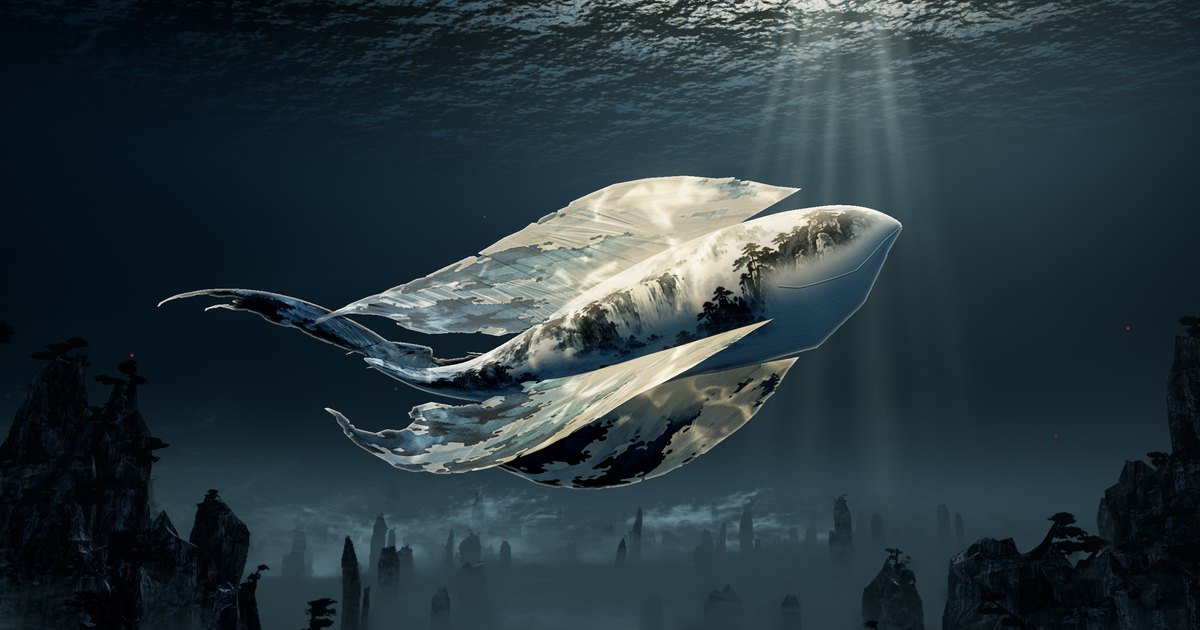
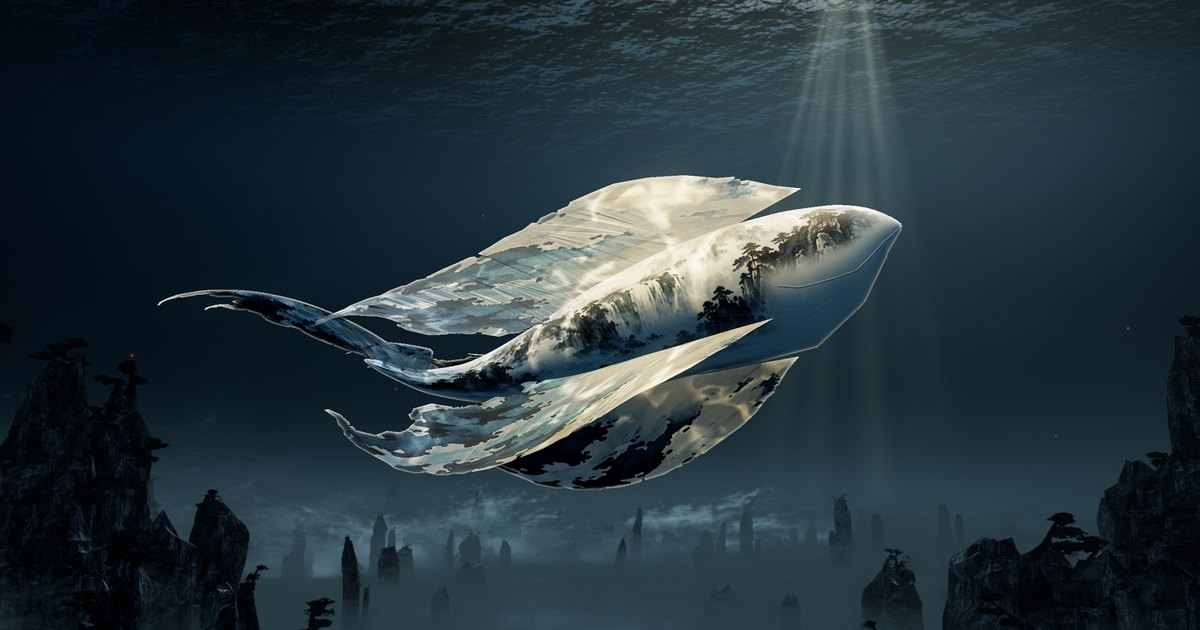
xiaoyaoyou: M4 a low fog bank swallows every foot; rays fan from just above the frame; glints tighten round the sun

diff --git a/games/xiaoyaoyou/src/post.js b/games/xiaoyaoyou/src/post.js
@@ -117,7 +117,7 @@ uniform sampler3D tMist;
 uniform mat4 uInverse;
 uniform vec3 uCamera, uLight, uShaft, uMist, uLayers, uHero;
 uniform vec2 uVanish;
-uniform float uTime, uSurface, uScale, uReach, uShaftGain, uMistGain, uMistTop, uMistBottom, uAspect;
+uniform float uTime, uSurface, uScale, uReach, uShaftGain, uMistGain, uMistTop, uMistBottom, uAspect, uBankTop, uBankDensity;
 uniform vec4 uRays[RAYS];
 varying vec2 vUv;
 float ign(vec2 p){return fract(52.9829189*fract(dot(p,vec2(.06711056,.00583715))));}
@@ -166,15 +166,17 @@ void main(){
   float phase=.42+1.3*pow(max(dot(ray,uLight),0.),2.);
   // Parallel light converges on one vanishing point, so the fine streaks radiate from it.
   // Held close above the frame, so the rays always fan out as they do in the key art.
-  vec2 fromSun=(vUv-vec2(uVanish.x,min(uVanish.y,1.3)))*vec2(uAspect,1.);
+  vec2 fromSun=(vUv-vec2(uVanish.x,min(uVanish.y,1.12)))*vec2(uAspect,1.);
   float angle=atan(fromSun.x,-fromSun.y);
   // Each ray is its own soft wedge with its own reach, so none ends at the same place and
   // the fan never reads as even stripes.
   float below=max(1.-vUv.y-.02,0.);
+  // A tall frame shows more water, so the same rays end sooner in it.
+  float tall=mix(.62,1.,clamp((uAspect-.5)/.9,0.,1.));
   float rays=0.;
   for(int i=0;i<RAYS;i++){
     vec4 r=uRays[i];
-    float across=(angle-r.x)/r.y, along=below/r.z;
+    float across=(angle-r.x)/r.y, along=below/(r.z*tall);
     rays+=r.w*exp(-across*across)*exp(-along*along);
   }
   float strands=texture2D(tGobo,vec2(angle*5.1+uTime*.004,.13)).a;
@@ -223,6 +225,15 @@ void main(){
     }
     scatter+=uMist*lit;
   }
+  // A low bank of fog with an uneven ceiling. Everything sinks into it as the path through it
+  // lengthens, so stone and seabed meet in one colour and a foot leaves no contour.
+  vec2 at=uCamera.xz+ray.xz*min(dist,uReach*6.);
+  float ceiling=uBankTop*(.5+1.1*texture(tMist,vec3(at/(760.*sqrt(uScale))+vec2(uTime*.003,0.),.61)).r);
+  float under=clamp((ceiling-end.y)/max(abs(uCamera.y-end.y),1.),0.,1.);
+  float bank=exp(-dist*under*uBankDensity);
+  float glow=.5+.42*texture(tMist,vec3(at/(300.*sqrt(uScale)),.23)).r;
+  scatter=scatter*bank+uMist*glow*(1.-bank)*.6;
+  transmit*=bank;
   gl_FragColor=vec4(scatter,transmit);
 }`;
 
@@ -437,7 +448,7 @@ export function createPost(renderer, gobo, seedRandom) {
     uShaft: { value: new THREE.Color('#A9B4AC') }, uMist: { value: new THREE.Color('#71868E') }, uLayers: { value: new THREE.Vector3(1, 0, 0) }, uHero: { value: new THREE.Vector3(0, 0, 30) }, uVanish: { value: new THREE.Vector2(.7, 1.6) }, uAspect: { value: 1.6 },
     uRays: { value: RAY_SET.map(() => new THREE.Vector4()) },
     uTime: { value: 0 }, uSurface: { value: 640 }, uScale: { value: 1 }, uReach: { value: 300 },
-    uShaftGain: { value: .46 }, uMistGain: { value: .012 }, uMistTop: { value: 120 }, uMistBottom: { value: -40 },
+    uShaftGain: { value: .46 }, uMistGain: { value: .012 }, uMistTop: { value: 120 }, uMistBottom: { value: -40 }, uBankTop: { value: 40 }, uBankDensity: { value: .006 },
   });
   const blur = pass(blurFragment, { tSource: { value: null }, tDepth: { value: depthTexture }, uStep: { value: new THREE.Vector2() }, uProject: { value: new THREE.Vector4() } });
   const downPass = pass(downFragment, { tSource: { value: null }, uTexel: { value: new THREE.Vector2() }, uThreshold: { value: 0 } });

diff --git a/games/xiaoyaoyou/src/main.js b/games/xiaoyaoyou/src/main.js
@@ -239,7 +239,7 @@ export async function createRuntime(text, onProgress) {
     u.uLayers.value.set(Math.max(0, 1 - octave), Math.max(0, 1 - Math.abs(octave - 1)), Math.max(0, octave - 1));
     u.uScale.value = scale;
     // The broader gobo layers carry more light, so the gain eases off as Kun grows.
-    u.uShaftGain.value = layers.shafts * .46 / Math.pow(scale, .42);
+    u.uShaftGain.value = layers.shafts * .37 / Math.pow(scale, .42);
     u.uLight.value.copy(world.light);
     const j = journey.j, climb = (WORLD.surface - j.y) / world.light.y, climb0 = WORLD.surface / world.light.y;
     if (state.beat === 'test') u.uHero.value.set(world.light.x * climb0, world.light.z * climb0, 13);
@@ -251,6 +251,8 @@ export async function createRuntime(text, onProgress) {
     u.tMistMap.value = world.mistMap;
     u.uMistTop.value = 34 + 30 * Math.sqrt(scale);
     u.uMistBottom.value = -30;
+    u.uBankTop.value = (inSea ? 1 : 0) * (22 + 13 * Math.sqrt(scale));
+    u.uBankDensity.value = layers.mist * .0065 / Math.sqrt(scale);
     post.cards.uGain.value = layers.cards * CARD_GAIN;
     post.grade.uBloom.value = layers.bloom * BLOOM_GAIN;
     post.cards.uScale.value = scale;

diff --git a/games/xiaoyaoyou/src/world.js b/games/xiaoyaoyou/src/world.js
@@ -193,12 +193,12 @@ function domeMaterial(shared) {
           float facet=smoothstep(-.5,.8,dot(slope,toSun)*44.);
           float swell=texture2D(tGobo,p/(size*3.1)+flow*.4).b;
           vec3 water=mix(uAbyss*.42,uSea*vec3(.5,.7,.88),facet*facet*facet*(.34+.66*pow(sun,5.)))*(.5+.95*swell);
-          float glow=pow(sun,8.);
-          water+=uHaze*glow*facet*facet*.8;
+          float glow=pow(sun,14.);
+          water+=uHaze*glow*facet*facet*.55;
           float glint=smoothstep(.1,.9,1.-length(slope-toSun*.014)*42.);
-          float pool=pow(sun,22.)*.46+pow(sun,60.)*7.;
+          float pool=pow(sun,36.)*.42+pow(sun,110.)*7.;
           float top=smoothstep(.44,.58,up);
-          vec3 cream=mix(uShaft*2.1,vec3(2.2,1.95,1.5),pow(sun,18.));
+          vec3 cream=mix(uShaft*1.4,vec3(2.1,1.86,1.42),pow(sun,40.));
           vec3 surface=water+cream*glint*min(pool,1.)*(.08+.92*top);
           surface+=cream*glint*max(pool-1.,0.)*.5*top;
           float near=exp(-pow(t*uDensity*.32,2.));
